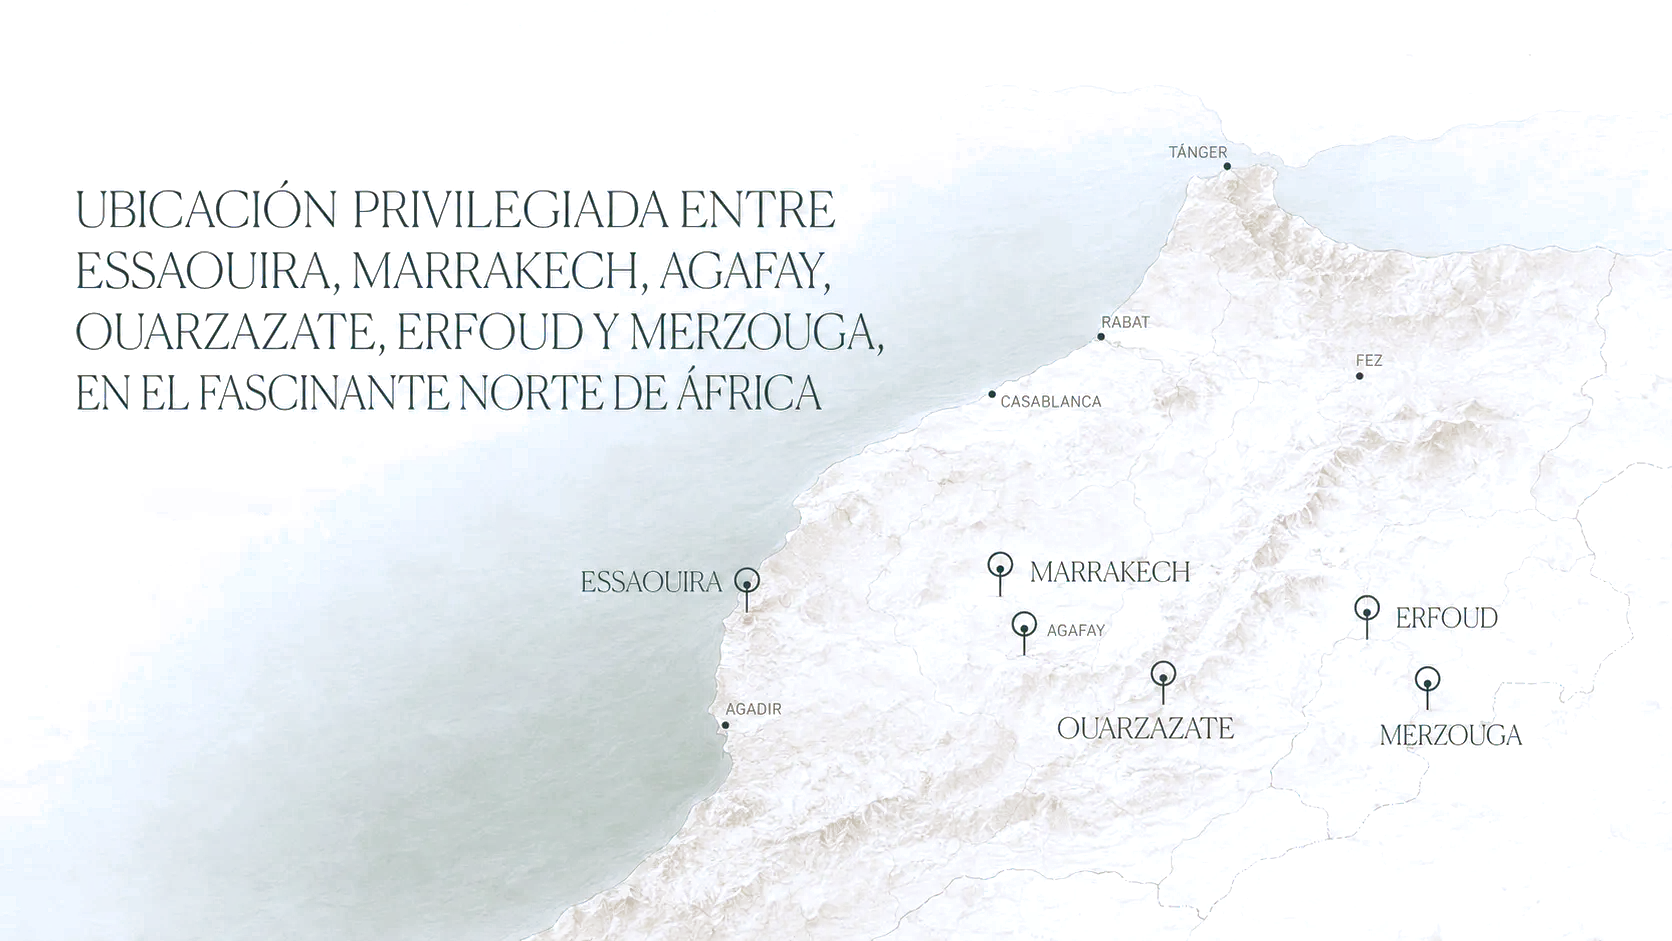
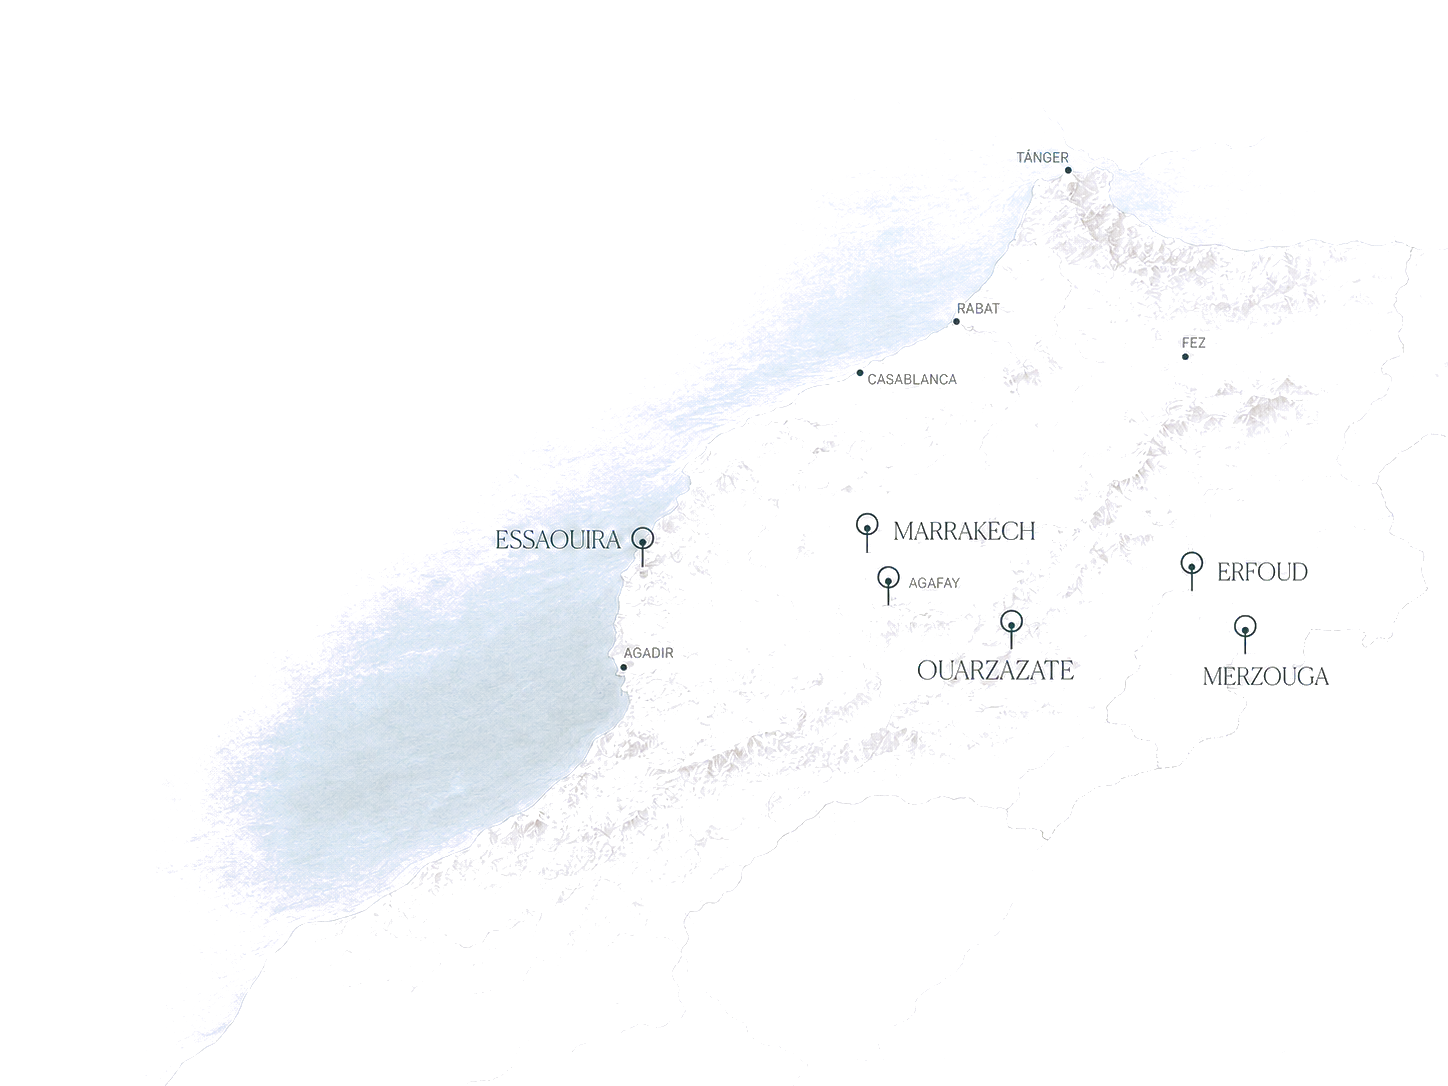
feat: el titular del mapa deja de ser mayúsculas horneadas en un PNG
Sergio reexportó el mapa sin el titular incrustado (mapa-kavan_2.png), así que
"Ubicación privilegiada entre..." pasa a ser un <h2> real en vez de píxeles.
Cambiar el caso de un texto horneado en una imagen no se puede hacer con CSS
sin reescribir píxeles a ciegas —frágil, se ve cosido—; la solución de fondo
era esta.

El nuevo recorte lleva vignette (una esquina daba 221, la opuesta 236, sin
contenido real de por medio): el color-to-alpha escalar del mapa anterior
habría leído esa sombra como dibujo. Se sustituye por una superficie —ajuste
cuadrático 2D por mínimos cuadrados sobre muestras de papel confirmado
vacío— que sigue el vignette pixel a pixel. Resultado: 0% de píxeles más
claros que el crema, esquinas compuestas en (235,225,205) exacto, sin rastro
del vignette donde no hay dibujo.

Las seis chinchetas se remidieron por análisis de componentes conectados
sobre la tinta oscura de los pines (centro-x, fondo del bbox = punta del
vástago), no a ojo: la relación con las coordenadas antiguas resultó lineal
casi perfecta (mismo arte, otro encuadre), lo que confirma la medición.

El titular se sitúa en la franja que el propio alfa certifica vacía —medido
columna a columna, no a ojo—, en Cormorant Garamond como el resto del sitio.
La máscara CSS de bordes se retira: este recorte ya llega a alfa cero en las
cuatro orillas, a diferencia del boceto de Marruecos.

Procedimiento (superficie 2D para papel no uniforme, medición de chinchetas
[…]

diff --git a/src/components/travel/MoroccoMap.tsx b/src/components/travel/MoroccoMap.tsx
@@ -7,22 +7,28 @@ import './MoroccoMap.css'
 /* ---------------------------------------------------------------------------
    Mapa de Marruecos con las ciudades del catálogo.
 
-   El mapa es una imagen: relieve, costa, rótulos y chinchetas vienen ya
-   dibujados. Encima se colocan zonas activas invisibles, una por ciudad, que
-   al señalarlas abren su ficha y al pulsarlas llevan a la página del destino.
+   El mapa es una imagen: relieve, costa y rótulos de referencia (Tánger,
+   Rabat, Casablanca, Fez, Agadir) vienen ya dibujados. El titular y las
+   chinchetas SÍ son HTML: la versión anterior de la imagen traía el titular
+   horneado en mayúsculas y, para poder ponerlo en su caso normal sin
+   redibujar píxeles, Sergio reexportó el mapa sin ese texto
+   (`mapa-kavan_2.png`, 2026-07-29) y aquí se reconstruye como texto real.
 
-   Las posiciones están medidas sobre la propia imagen (el vástago de cada
-   chincheta) y van en porcentaje, así que aguantan cualquier tamaño de
-   pantalla. Si se cambia la imagen del mapa hay que volver a medirlas.
+   Las posiciones de las chinchetas están medidas sobre la propia imagen (el
+   vástago de cada una, por análisis de píxeles) y van en porcentaje, así que
+   aguantan cualquier tamaño de pantalla. Si se cambia la imagen del mapa hay
+   que volver a medirlas.
 --------------------------------------------------------------------------- */
 
+const TITULO = 'Ubicación privilegiada entre Essaouira, Marrakech, Agafay, Ouarzazate, Erfoud y Merzouga, en el fascinante norte de África'
+
 const PUNTOS: Record<string, { x: number; y: number }> = {
-  essaouira: { x: 44.7, y: 62.4 },
-  marrakech: { x: 59.8, y: 60.7 },
-  agafay: { x: 61.2, y: 67.0 },
-  ouarzazate: { x: 69.6, y: 72.3 },
-  erfoud: { x: 81.8, y: 65.3 },
-  merzouga: { x: 85.4, y: 72.9 },
+  essaouira: { x: 44.3, y: 52.1 },
+  marrakech: { x: 59.8, y: 50.8 },
+  agafay: { x: 61.3, y: 55.6 },
+  ouarzazate: { x: 69.8, y: 59.7 },
+  erfoud: { x: 82.3, y: 54.3 },
+  merzouga: { x: 86.0, y: 60.1 },
 }
 
 export function MoroccoMap() {
@@ -64,11 +70,13 @@ export function MoroccoMap() {
           className="mmap-image"
           src="/images/mapa-kavan-alpha.webp"
           alt="Mapa de Marruecos con Essaouira, Marrakech, Agafay, Ouarzazate, Erfoud y Merzouga"
-          width={1672}
-          height={941}
+          width={1448}
+          height={1086}
           loading="lazy"
           decoding="async"
         />
+
+        <h2 className="mmap-title">{TITULO}</h2>
 
         {conPunto.map((c) => {
           const p = PUNTOS[c.slug]

diff --git a/src/components/travel/MoroccoMap.css b/src/components/travel/MoroccoMap.css
@@ -14,16 +14,42 @@
 
 /* El mapa va recortado sobre alfa (`mapa-kavan-alpha.webp`): su papel se
    sustituyó por transparencia, así que el crema de la sección se ve a través y
-   no hay rectángulo. Quedaban los dos bordes horizontales, donde el mar llega
-   al final del encuadre y corta en seco: arriba se disuelve en el 11% inicial
-   —el titular del mapa empieza en el 20%, así que no lo toca— y abajo en el
-   último 22%. Los laterales no llevan máscara: ahí el mapa ya muere en papel. */
+   no hay rectángulo. A diferencia del boceto de Marruecos, aquí no hace falta
+   máscara de CSS para los bordes: el propio recorte ya llega a alfa casi cero
+   en las cuatro orillas (medido: fila superior, inferior y las dos columnas
+   de canto en 0), así que no hay corte que disolver. */
 .mmap-image {
   width: 100%;
   height: auto;
   display: block;
-  -webkit-mask-image: linear-gradient(to bottom, transparent 0%, #000 11%, #000 78%, transparent 100%);
-  mask-image: linear-gradient(to bottom, transparent 0%, #000 11%, #000 78%, transparent 100%);
+}
+
+/* El titular horneado en la imagen anterior —en mayúsculas— se convirtió en
+   texto real cuando Sergio reexportó el mapa sin él. Se apoya en la esquina
+   superior izquierda porque ahí es donde ese hueco queda vacío de verdad:
+   medido sobre el alfa, hasta el 48% del ancho el primer 32% de alto no tiene
+   ni una chincheta ni un trazo de costa. `max-width` se queda corto ese
+   margen a propósito, para no invadir el mar según se acerca a Tánger. */
+.mmap-title {
+  position: absolute;
+  z-index: 1;
+  left: var(--padding);
+  top: 7%;
+  max-width: 34%;
+  font-family: var(--font-display);
+  font-weight: var(--weight-text);
+  font-size: var(--text-lead);
+  line-height: 1.3;
+  color: var(--ink);
+}
+
+@media (max-width: 1023px) {
+  .mmap-title {
+    position: static;
+    max-width: none;
+    padding: var(--space-5) var(--padding) 0;
+    font-size: var(--text-2);
+  }
 }
 
 /* ---------- Zonas activas ---------- */
